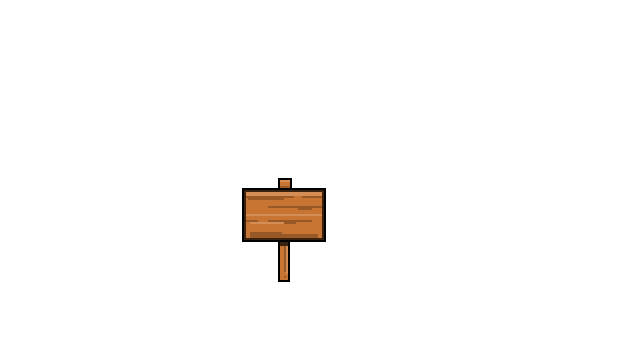
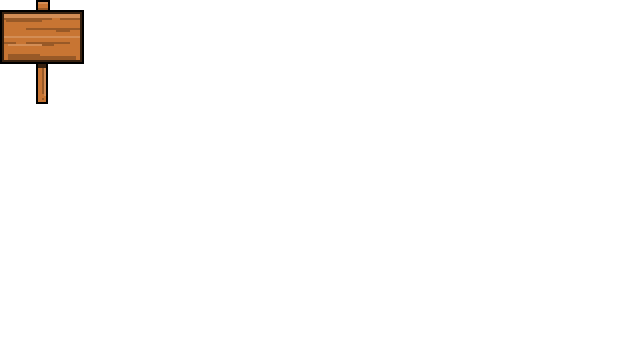
housekeeping

Changed region(s): [[0.0, 0.0, 0.1562, 0.3056], [0.375, 0.4889, 0.5312, 0.7944]]

diff --git a/Wheats and Wands/Entities/CollisionEntity.cs b/Wheats and Wands/Entities/CollisionEntity.cs
@@ -33,34 +33,34 @@ namespace Wheats_and_Wands.Entities
         
         public bool LeftCollision(Sprite sprite)
         {
-            return this._sprite.rectangle.Right  > sprite.rectangle.Left &&
-                   this._sprite.rectangle.Left < sprite.rectangle.Left &&
-                   this._sprite.rectangle.Bottom > sprite.rectangle.Top &&
-                   this._sprite.rectangle.Top < sprite.rectangle.Bottom;
+            return _sprite.X + _sprite.Width > sprite.X && //right edge greater than left edge
+                   _sprite.X < sprite.X + sprite.Width&& //left edge less than right edge
+                   _sprite.Y + _sprite.Height > sprite.Y &&
+                   _sprite.Y < sprite.Y + sprite.Height;
         }
 
-        public bool RightCollision(Sprite sprite)
+        public bool RightCollision(Rectangle rectangle)
         {
-            return this._sprite.rectangle.Left < sprite.rectangle.Right &&
-                   this._sprite.rectangle.Right > sprite.rectangle.Right &&
-                   this._sprite.rectangle.Bottom > sprite.rectangle.Top &&
-                   this._sprite.rectangle.Top < sprite.rectangle.Bottom;
+            return this._sprite.rectangle.Left < rectangle.Right &&
+                   this._sprite.rectangle.Right > rectangle.Right &&
+                   this._sprite.rectangle.Bottom > rectangle.Top &&
+                   this._sprite.rectangle.Top < rectangle.Bottom;
         }
 
-        public bool TopCollision(Sprite sprite)
+        public bool TopCollision(Rectangle rectangle)
         {
-            return this._sprite.rectangle.Bottom > sprite.rectangle.Top &&
-                   this._sprite.rectangle.Top < sprite.rectangle.Top &&
-                   this._sprite.rectangle.Right > sprite.rectangle.Left &&
-                   this._sprite.rectangle.Left < sprite.rectangle.Right;
+            return this._sprite.rectangle.Bottom > rectangle.Top &&
+                   this._sprite.rectangle.Top < rectangle.Top &&
+                   this._sprite.rectangle.Right > rectangle.Left &&
+                   this._sprite.rectangle.Left < rectangle.Right;
         }
 
-        public bool BottomCollision(Sprite sprite)
+        public bool BottomCollision(Rectangle rectangle)
         {
-            return this._sprite.rectangle.Top  < sprite.rectangle.Bottom &&
-                   this._sprite.rectangle.Bottom > sprite.rectangle.Bottom &&
-                   this._sprite.rectangle.Right > sprite.rectangle.Left &&
-                   this._sprite.rectangle.Left < sprite.rectangle.Right;
+            return this._sprite.rectangle.Top  < rectangle.Bottom &&
+                   this._sprite.rectangle.Bottom > rectangle.Bottom &&
+                   this._sprite.rectangle.Right > rectangle.Left &&
+                   this._sprite.rectangle.Left < rectangle.Right;
         }
     }
 }

diff --git a/Wheats and Wands/Entities/Farmer.cs b/Wheats and Wands/Entities/Farmer.cs
@@ -22,12 +22,14 @@ namespace Wheats_and_Wands.Entities
 
         public FarmerState State { get; set; }
         public Vector2 Position { get; set; }
+        public Rectangle rectangle { get; set; }
         //public bool IsAlive { get; private set; }
         public int DrawOrder { set; get; }
         public bool OnGround { get; set; }
 
         private Sprite _FarmerIdlePose;
         private SpriteAnimation _farmerWalkCycle;
+        public Sprite _sprite { get; private set; }
 
 
         private float _verticalVelocity;
@@ -41,6 +43,8 @@ namespace Wheats_and_Wands.Entities
             Position = position;
 
             _FarmerIdlePose = new Sprite(spriteSheet, 0, 0, 64, 128);
+            _sprite = _FarmerIdlePose;
+            rectangle = new Rectangle((int)Position.X, (int)Position.Y, 64, 128);
             State = FarmerState.Idle;
             _startPosY = position.Y;
 
@@ -68,15 +72,18 @@ namespace Wheats_and_Wands.Entities
             if (State == FarmerState.Idle)
             {
                 _FarmerIdlePose.Draw(spriteBatch, this.Position);
+                _sprite = _FarmerIdlePose;
 
             }
             else if (State == FarmerState.Jumping || State == FarmerState.Falling)
             {
                 _FarmerIdlePose.Draw(spriteBatch, Position);
+                _sprite = _FarmerIdlePose;
             }
             else if (State == FarmerState.Running)
             {
                 _farmerWalkCycle.Draw(spriteBatch, Position);
+                _sprite = _farmerWalkCycle.CurrentFrame.Sprite;
             }
         }
 
@@ -117,6 +124,8 @@ namespace Wheats_and_Wands.Entities
                 HorizontalVelocity.X = 3f;
             else
                 HorizontalVelocity.X = 0f;
+            
+            rectangle = new Rectangle((int)Position.X, (int)Position.Y, 64, 128);
         }
 
 

diff --git a/Wheats and Wands/WheatandWandsGame.cs b/Wheats and Wands/WheatandWandsGame.cs
@@ -28,6 +28,8 @@ namespace Wheats_and_Wands
         Texture2D _tutorialFarmBackground;
         Texture2D _farmerSpriteSheet;
         Texture2D _hayBale;
+        Texture2D _sign;
+        Texture2D _textbox;
 
         List<ScrollBackground> _scrollBackgrounds;
 
@@ -84,6 +86,8 @@ namespace Wheats_and_Wands
             _titleTheme = Content.Load<Song>("music_zapsplat_game_music_zen_calm_soft_arpeggios_013");
 
             _hayBale = Content.Load<Texture2D>("PNG Objects/HayBale-1");
+            _sign = Content.Load<Texture2D>("PNG Objects/Sign");
+            _textbox = Content.Load<Texture2D>("PNG Objects/TextBox");
             _tutorialTheme = Content.Load<Song>("music_orlamusic_Happy+006");
 
             _creditScreenSprite = Content.Load<Texture2D>("Backgrounds/Credits Screen"); //Added
@@ -91,6 +95,8 @@ namespace Wheats_and_Wands
 
             _farmerSpriteSheet = Content.Load<Texture2D>("Farmer walk cycle");
             _tutorialFarmBackground = Content.Load<Texture2D>("Backgrounds/FarmerBackground2D1");
+
+
 
             var farmerSpriteSheet = Content.Load<Texture2D>("Farmer walk cycle");
             _farmer = new Farmer(farmerSpriteSheet, new Vector2(50, (WINDOW_HEIGHT-farmerSpriteSheet.Height) - 20 ));
@@ -116,7 +122,7 @@ namespace Wheats_and_Wands
             _titleScreen = new TitleScreen(_titleScreenSprite, _gameState);
             _creditScreen = new CreditScreen(_creditScreenSprite,_creditFont );
 
-            _tutorial = new TutorialFarm(_tutorialFarmBackground, _farmer);
+            _tutorial = new TutorialFarm(_tutorialFarmBackground, _farmer, _sign, _textbox, _creditFont);
         }
 
         protected override void Update(GameTime gameTime)

diff --git a/Wheats and Wands/Levels/TutorialFarm.cs b/Wheats and Wands/Levels/TutorialFarm.cs
@@ -11,14 +11,18 @@ namespace Wheats_and_Wands.Levels
 {
     class TutorialFarm : Level
     {
-        public Vector2 _farmerStartPos { get ; set ; }
+        //public Vector2 _farmerStartPos { get ; set ; }
         public Texture2D _backGround { get ; set ; }
         public Farmer _farmer { get ; set ; }
         SpriteBatch _spriteBatch;
-        public TutorialFarm(Texture2D backGround, Farmer farmer)
+        Sign _sign;
+
+        public TutorialFarm(Texture2D backGround, Farmer farmer, Texture2D signTexture, Texture2D msgBoxTexture, SpriteFont font)
         {
             _backGround = backGround;
             _farmer = farmer;
+            _sign = new Sign(new Sprite(signTexture, 0, 0, 83, 103), msgBoxTexture, font, "Press W A D to move");
+            
 
         }
 
@@ -26,12 +30,18 @@ namespace Wheats_and_Wands.Levels
         {
             _spriteBatch = spriteBatch;
             _spriteBatch.Draw(_backGround, _frame, Color.White);
+            _sign.Draw(spriteBatch, new Vector2(500, 325));
             _farmer.Draw(spriteBatch, gameTime);
         }
 
         public override void Update(GameTime gameTime)
         {
+
+            
             _farmer.Update(gameTime);
+            _sign.Update(gameTime, _farmer);
         }
+
+
     }
 }

diff --git a/Wheats and Wands/Entities/MessageBox.cs b/Wheats and Wands/Entities/MessageBox.cs
@@ -7,22 +7,24 @@ using Wheats_and_Wands.Graphics;
 
 namespace Wheats_and_Wands.Entities
 {
-    class MessageBox// : IGameEntity
+    class MessageBox : IGameEntity
     {
         public int DrawOrder { get; set; }
         Sprite _sprite;
         SpriteFont _font;
+        string _messsage;
 
-        public MessageBox(Sprite sprite, SpriteFont font)
+        public MessageBox(Sprite sprite, SpriteFont font, string message)
         {
             _sprite = sprite;
             _font = font;
+            _messsage = message;
         }
 
-        public void Draw(SpriteBatch spriteBatch, GameTime gameTime, string messsage)
+        public void Draw(SpriteBatch spriteBatch, GameTime gameTime)
         {
-            _sprite.Draw(spriteBatch, new Vector2(_sprite.X, _sprite.Y));
-            spriteBatch.DrawString(_font, messsage, new Vector2(_sprite.X + 15, _sprite.Y- 50), Color.White);
+            _sprite.Draw(spriteBatch, new Vector2((WheatandWandsGame.WINDOW_WIDTH/2) - (_sprite.Width/2), 75));
+            spriteBatch.DrawString(_font, _messsage, new Vector2((WheatandWandsGame.WINDOW_WIDTH / 2), 75), Color.White);
 
         }
 
@@ -30,5 +32,7 @@ namespace Wheats_and_Wands.Entities
         {
             
         }
+
+        
     }
 }

diff --git a/Wheats and Wands/Entities/Sign.cs b/Wheats and Wands/Entities/Sign.cs
@@ -18,16 +18,24 @@ namespace Wheats_and_Wands.Entities
             _sprite = sprite;
             _messageBox = new MessageBox(new Sprite(msgbox, 0, 0, 347, 77), font);
             _message = message;
+            collision = false;
         }
-        public void Draw(SpriteBatch spriteBatch, GameTime gameTime)
+        public void Draw(SpriteBatch spriteBatch, Vector2 position)
         {
-            _sprite.Draw(spriteBatch, new Vector2(_sprite.X, _sprite.Y));
+            _sprite.Draw(spriteBatch, position);
             if (collision)
-                _messageBox.Draw(spriteBatch, gameTime, _message);
+            {
+                _messageBox.Draw(spriteBatch, _message);
+            }
+                
         }
 
-        public void Update(GameTime gameTime)
+        public void Update(GameTime gameTime, Farmer farmer)
         {
+
+            collision = (LeftCollision(farmer._sprite)); //|| RightCollision(farmer.rectangle) ||
+                //TopCollision(farmer.rectangle) || BottomCollision(farmer.rectangle);
+            
             
         }
     }

diff --git a/Wheats and Wands/Graphics/SpriteAnimation.cs b/Wheats and Wands/Graphics/SpriteAnimation.cs
@@ -41,13 +41,12 @@ namespace Wheats_and_Wands.Graphics
                 return _frames.Max(f => f.TimeStamp);
             }
         }
-
-        public bool IsPlaying { get; private set; }
-
         public float PlaybackProgress { get; private set; }
 
+        public bool IsPlaying { get; private set; }
         public bool ShouldLoop { get; set; } = true;
 
+        
         public void AddFrame(Sprite sprite, float timeStamp)
         {
             SpriteAnimationFrame frame = new SpriteAnimationFrame(sprite, timeStamp);

diff --git a/Wheats and Wands/Graphics/Sprite.cs b/Wheats and Wands/Graphics/Sprite.cs
@@ -33,6 +33,13 @@ namespace Wheats_and_Wands.Graphics
         {
             spriteBatch.Draw(Texture, position, new Rectangle(X, Y, Width, Height), TintColor); //, SpriteEffects
         }
-        
+
+        /*
+        public void Draw(SpriteBatch spriteBatch, Vector2 position, SpriteEffects effect)
+        {
+            spriteBatch.Draw(Texture,position, new Rectangle(X, Y, Width, Height), TintColor,0f,new Vector2(Width/2,Height/2), effect,1);
+            
+        }
+        */
     }
 }

diff --git a/Wheats and Wands/Graphics/SpriteAnimationFrame.cs b/Wheats and Wands/Graphics/SpriteAnimationFrame.cs
@@ -7,6 +7,7 @@ namespace Wheats_and_Wands.Graphics
     public class SpriteAnimationFrame
     {
         private Sprite _sprite;
+        public float TimeStamp { get; }
 
         public Sprite Sprite
         {
@@ -24,8 +25,6 @@ namespace Wheats_and_Wands.Graphics
                 _sprite = value;
             }
         }
-
-        public float TimeStamp { get; }
 
         public SpriteAnimationFrame(Sprite sprite, float timestamp)
         {

diff --git a/Wheats and Wands/Levels/CreditScreen.cs b/Wheats and Wands/Levels/CreditScreen.cs
@@ -9,9 +9,7 @@ namespace Wheats_and_Wands.Levels
     public class CreditScreen : Level
     {
         Texture2D _creditScreen { get; set; }
-
         SpriteFont _font { get; set; }
-
         public CreditScreen(Texture2D creditScreen, SpriteFont font)//GameTime gameTime, Texture2D creditsScreen)
         {
             _font = font;

diff --git a/Wheats and Wands/System/InputController.cs b/Wheats and Wands/System/InputController.cs
@@ -12,13 +12,9 @@ namespace Wheats_and_Wands.System
     {
 
         const float PLAYER_SPEED = 250f;
-
         Vector2 position = new Vector2(0,0);
-
         private Farmer _farmer;
-
         private KeyboardState _previousKeyboardState;
-
         private Display_Options _displayOptions;
 
 
